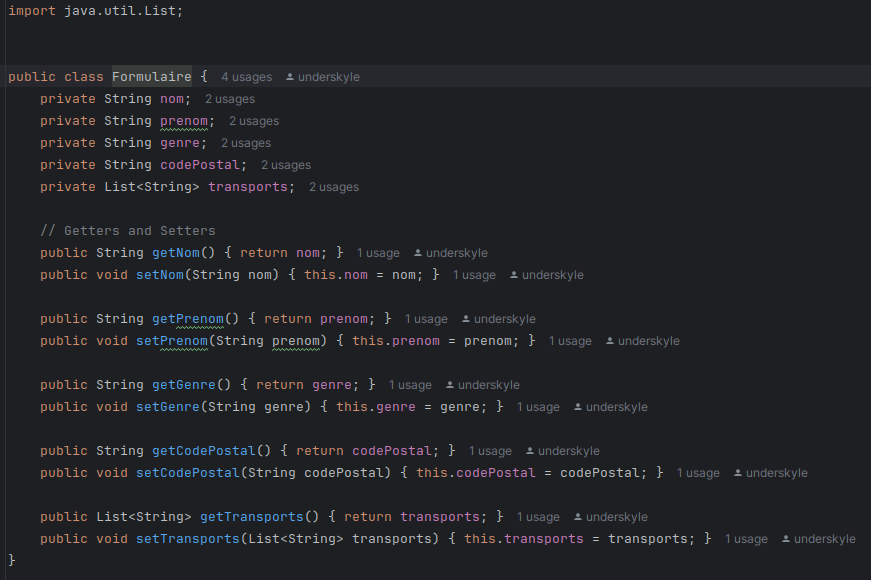
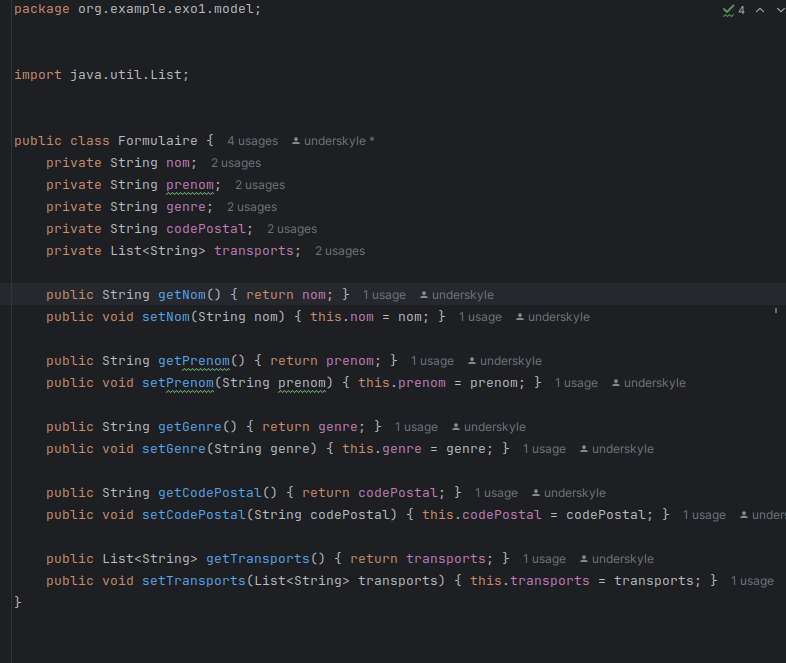
feat: finished rapport

diff --git a/src/main/java/org/example/exo1/controller/FormController.java b/src/main/java/org/example/exo1/controller/FormController.java
@@ -22,7 +22,6 @@ public class FormController extends HttpServlet {
         String codePostal = request.getParameter("codePostal");
         String[] transports = request.getParameterValues("transports");
 
-        // Validate required fields
         if (nom == null || prenom == null || genre == null || codePostal == null ||
                 nom.isEmpty() || prenom.isEmpty() || genre.isEmpty() || codePostal.isEmpty()) {
             request.setAttribute("error", "All fields are required!");
@@ -31,7 +30,6 @@ public class FormController extends HttpServlet {
             return;
         }
 
-        // Validate names
         if (!isValidName(nom)) {
             request.setAttribute("error", "Nom is invalid! It should only contain letters and spaces.");
             RequestDispatcher rd = request.getRequestDispatcher("formulaire.jsp");
@@ -46,7 +44,6 @@ public class FormController extends HttpServlet {
             return;
         }
 
-        // Validate code postal
         if (!isValidCodePostal(codePostal)) {
             request.setAttribute("error", "CodePostal invalid!");
             RequestDispatcher rd = request.getRequestDispatcher("formulaire.jsp");
@@ -54,7 +51,6 @@ public class FormController extends HttpServlet {
             return;
         }
 
-        // Create a new Formulaire object
         Formulaire formData = new Formulaire();
         formData.setNom(nom);
         formData.setPrenom(prenom);
@@ -62,15 +58,12 @@ public class FormController extends HttpServlet {
         formData.setCodePostal(codePostal);
         formData.setTransports(transports != null ? Arrays.asList(transports) : new ArrayList<>());
 
-        // Get the session and retrieve the list of form submissions
         HttpSession session = request.getSession();
 
-        // Store the updated list back in the session
         session.setAttribute("formData", formData);
 
         response.setCharacterEncoding("UTF-8");
         response.setContentType("text/html; charset=UTF-8");
-        // Forward to the results page
         RequestDispatcher rd = request.getRequestDispatcher("resultatFormulaire.jsp");
 
         StringBuilder formattedTransports = new StringBuilder();
@@ -83,7 +76,7 @@ public class FormController extends HttpServlet {
 
 
     private boolean isValidCodePostal(String codePostal) {
-        String postalCodeRegex = "^[0-9]{5}$";  // A simple regex for a 5-digit postal code.
+        String postalCodeRegex = "^[0-9]{5}$";
 
         Pattern pattern = Pattern.compile(postalCodeRegex);
         Matcher matcher = pattern.matcher(codePostal);

diff --git a/src/main/java/org/example/exo1/model/Formulaire.java b/src/main/java/org/example/exo1/model/Formulaire.java
@@ -11,7 +11,6 @@ public class Formulaire {
     private String codePostal;
     private List<String> transports;
 
-    // Getters and Setters
     public String getNom() { return nom; }
     public void setNom(String nom) { this.nom = nom; }
 

diff --git a/README.md b/README.md
@@ -2,7 +2,7 @@
 ## Simonneau Robin, Pottier Loann, Landry Simon
 
 ## **Exercice 1**
-Dans cette exercice il nous est demandé de créer un formulaire permettant d'enregistré des données et des les afficher, nous avons commencé par créer le Bean correspondant au formualaire.
+Le but de cet exercice est de créer un formulaire permettant d'enregistrer des informations sur un utilisateur.
 ![image1](images/FormulaireBean.png)
 
 *Formulaire.java*
@@ -22,11 +22,7 @@ Ensuite, nous avons créé la vue pour le resultat :
 *resultatFormulaire.jsp*
 
 
-Les expressions de langages permettent de récupérer les informations que l'on passe dans la requête, comme **isError**, qui si est vrai alors affiche un message d'erreur.  
-Dans _resultatFormulaire.jsp_ on passe directement l'objet **FormData** ce qui nous permet de récupérer les valeurs de ces attributs.
-(ici le .out affiche une erreur dans mon IDE, mais le code fonctionne)
-
-Dans _resultatFormulaire.jsp_ on utilise aussi un **Iterator** pour parcourir la liste des véhicules
+On utilise ici la syntaxe EL pour aller chercher les informations directement depuis la session
 
 Ensuite le code du controller *FormController.jsp* :
 
@@ -38,7 +34,7 @@ Ici les validations des paramètres du formulaire
 
 ![image1](images/FormulaireControllerCreation.png)
 
-Ici on instancie le bean et on le stock dans la session pour que le _resultatFormulaire.jsp_ puisse y accéder
+Ici, on instancie le bean et on le stock dans la session pour que le _resultatFormulaire.jsp_ puisse y accéder.
 
 
 
